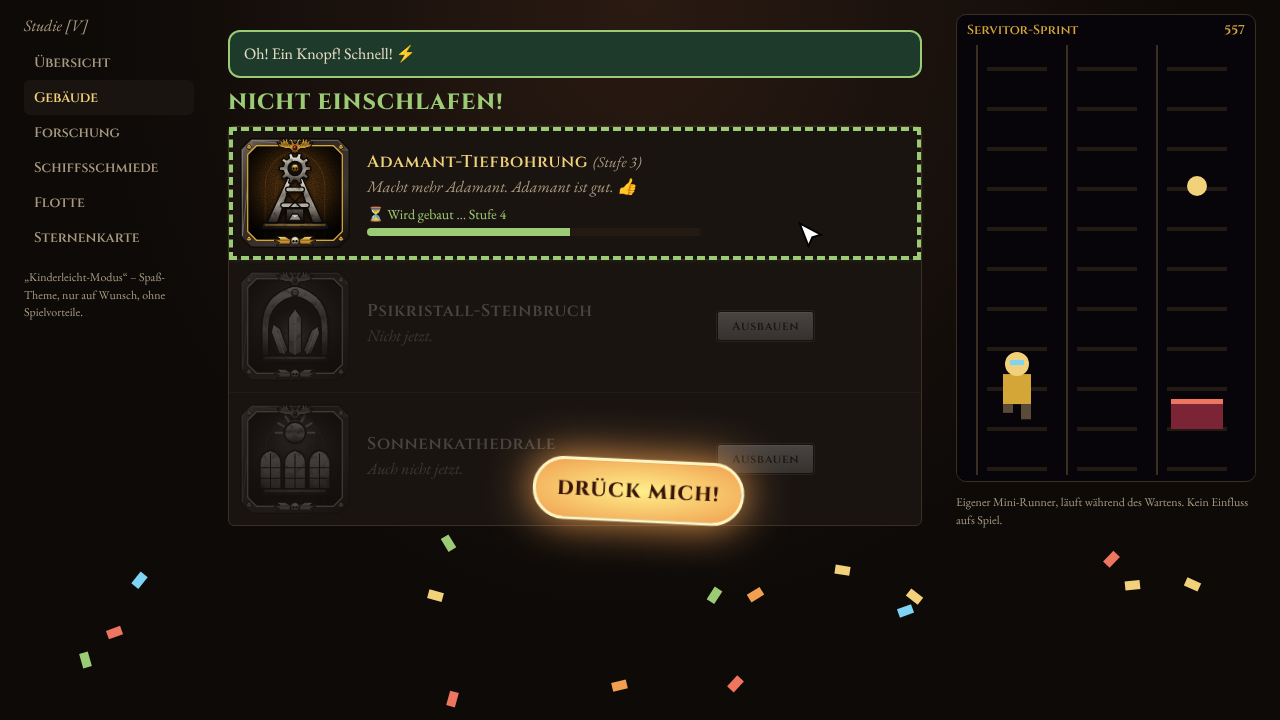
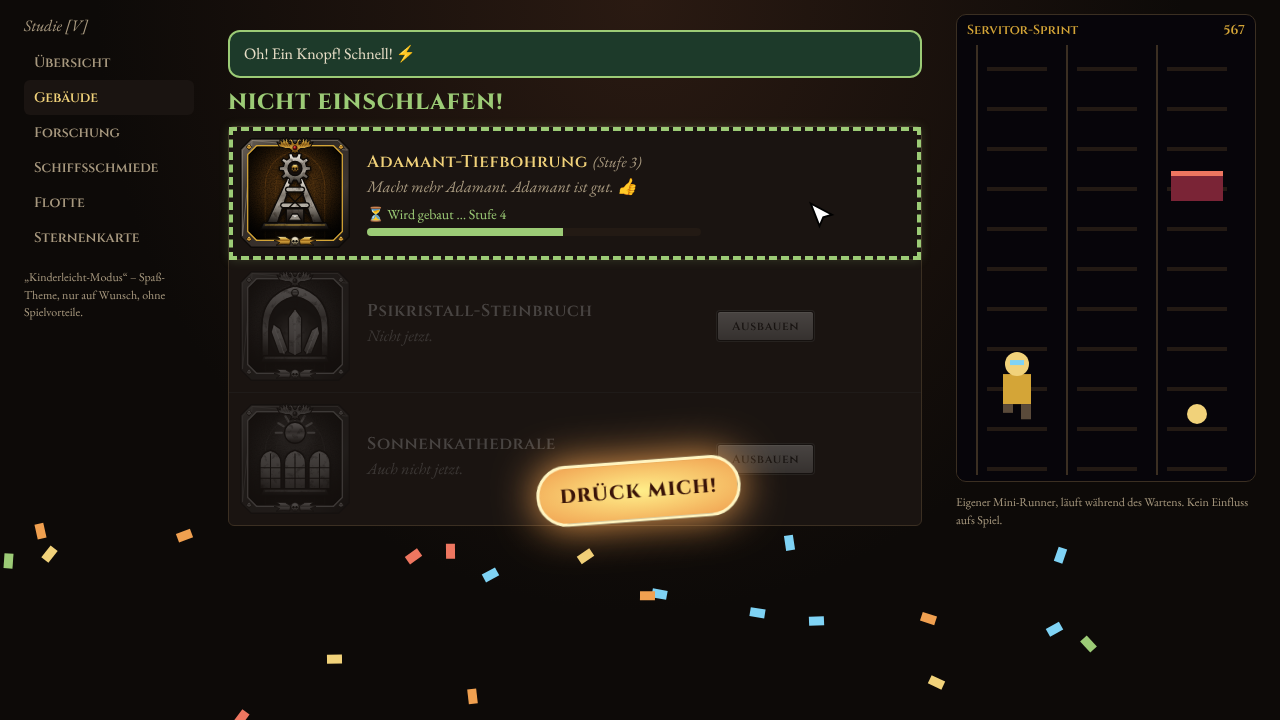
docs(design): ad with a 10 s wait and slot machine in the Kinderleicht study (#200)
Claude-Session: https://claude.ai/code/session_01SfKPSV7yZs96GhoXk9TEow

diff --git a/docs/design/ideas/easy-mode.html b/docs/design/ideas/easy-mode.html
@@ -125,7 +125,7 @@
       }
       .cursor {
         position: fixed;
-        z-index: 10;
+        z-index: 12;
         width: 30px;
         height: 30px;
         pointer-events: none;
@@ -257,6 +257,160 @@
         font-size: 22px;
         letter-spacing: 3px;
       }
+      .ad {
+        position: fixed;
+        inset: 0;
+        z-index: 11;
+        background: rgba(0, 0, 0, 0.78);
+        display: none;
+        align-items: center;
+        justify-content: center;
+      }
+      .ad.on {
+        display: flex;
+      }
+      .adcard {
+        width: 540px;
+        border-radius: 20px;
+        border: 4px solid #fff;
+        background: linear-gradient(160deg, #ff3ea5, #7a2cff 55%, #ffb321);
+        color: #fff;
+        padding: 12px 18px 14px;
+        text-align: center;
+        font-family: system-ui, sans-serif;
+        box-shadow: 0 0 60px #ff3ea5;
+        position: relative;
+      }
+      .adtop {
+        display: flex;
+        justify-content: space-between;
+        align-items: center;
+        font:
+          700 12px system-ui,
+          sans-serif;
+        letter-spacing: 0.1em;
+        opacity: 0.9;
+      }
+      .adcount {
+        background: rgba(0, 0, 0, 0.45);
+        border-radius: 14px;
+        padding: 4px 10px;
+        font-size: 13px;
+        letter-spacing: 0;
+      }
+      .adcount.shake {
+        animation: shake 0.35s;
+      }
+      @keyframes shake {
+        25% {
+          transform: translateX(-6px);
+        }
+        75% {
+          transform: translateX(6px);
+        }
+      }
+      .adx {
+        display: none;
+        width: 34px;
+        height: 34px;
+        border-radius: 50%;
+        background: #fff;
+        color: #000;
+        font: 800 18px system-ui;
+        border: 0;
+        padding: 0;
+        min-height: 0;
+      }
+      .adtitle {
+        font:
+          900 34px system-ui,
+          sans-serif;
+        margin: 6px 0 0;
+        text-shadow: 0 3px 0 #3a0a50;
+        letter-spacing: 0.02em;
+      }
+      .adsub {
+        font:
+          900 18px system-ui,
+          sans-serif;
+        color: #fff36a;
+        animation: blink 0.5s steps(2) infinite;
+        margin: 2px 0 8px;
+      }
+      @keyframes blink {
+        to {
+          opacity: 0.25;
+        }
+      }
+      .jack {
+        font: 800 15px system-ui;
+        background: #000a;
+        border-radius: 10px;
+        display: inline-block;
+        padding: 3px 12px;
+        margin-bottom: 8px;
+      }
+      .slot {
+        display: flex;
+        gap: 10px;
+        justify-content: center;
+        align-items: center;
+        background: #1a0630;
+        border: 4px solid #ffd23e;
+        border-radius: 14px;
+        padding: 12px;
+      }
+      .reel {
+        width: 90px;
+        height: 90px;
+        overflow: hidden;
+        background: #fff;
+        border-radius: 10px;
+        box-shadow:
+          inset 0 8px 14px #0006,
+          inset 0 -8px 14px #0006;
+      }
+      .strip div {
+        height: 90px;
+        display: flex;
+        align-items: center;
+        justify-content: center;
+        font-size: 56px;
+      }
+      .lever {
+        margin-left: 8px;
+        font: 900 15px system-ui;
+        padding: 12px 14px;
+        border-radius: 12px;
+        background: linear-gradient(#ff5a5a, #b00020);
+        color: #fff;
+        border: 3px solid #fff;
+        min-height: 0;
+      }
+      .adres {
+        font:
+          900 22px system-ui,
+          sans-serif;
+        min-height: 30px;
+        margin: 8px 0 4px;
+        color: #fff36a;
+        text-shadow: 0 2px 0 #000;
+      }
+      .install {
+        font: 900 17px system-ui;
+        padding: 10px 22px;
+        border-radius: 30px;
+        background: #22d36b;
+        color: #fff;
+        border: 3px solid #fff;
+        min-height: 0;
+        animation: wob 0.4s ease-in-out infinite alternate;
+      }
+      .adfine {
+        font-size: 10px;
+        opacity: 0.75;
+        margin: 8px 0 0;
+      }
     </style>
   </head>
   <body>
@@ -371,6 +525,36 @@
       />
     </svg>
     <button class="pop" id="pop">DRÜCK MICH!</button>
+    <div class="ad" id="ad">
+      <div class="adcard">
+        <div class="adtop">
+          <span>ANZEIGE</span
+          ><span class="adcount" id="adcount">Werbung schließen in 10</span
+          ><button class="adx" id="adx">✕</button>
+        </div>
+        <p class="adtitle">PROMETHIUM PANIK 🔥</p>
+        <p class="adsub">99 % SCHAFFEN DAS NICHT!</p>
+        <span class="jack">JACKPOT: 9.999.999 💎</span>
+        <div class="slot">
+          <div class="reel">
+            <div class="strip" id="r0"><div>💎</div></div>
+          </div>
+          <div class="reel">
+            <div class="strip" id="r1"><div>🚀</div></div>
+          </div>
+          <div class="reel">
+            <div class="strip" id="r2"><div>👑</div></div>
+          </div>
+          <button class="lever" id="lever">🎰<br />HEBEL<br />ZIEHEN</button>
+        </div>
+        <div class="adres" id="adres"></div>
+        <button class="install">JETZT GRATIS SPIELEN ▶</button>
+        <p class="adfine">
+          *Spielt sich nicht wie in der Werbung. Gewinne sind ausgeschlossen.
+          Parodie, keine echte Werbung.
+        </p>
+      </div>
+    </div>
     <div class="praise" id="praise"></div>
     <script>
       const $ = (id) => document.getElementById(id);
@@ -428,6 +612,73 @@
             { duration: 1800 + Math.random() * 1200, easing: 'ease-in' },
           ).onfinish = () => c.remove();
         }
+      }
+      const SYM = ['💀', '💎', '🚀', '⭐', '🔥', '👑'];
+      function spin(targets) {
+        targets.forEach((tg, i) => {
+          const n = 16 + i * 6;
+          const strip = $('r' + i);
+          let h = '';
+          for (let k = 0; k < n; k++)
+            h += `<div>${SYM[(k * 5 + i * 2) % SYM.length]}</div>`;
+          strip.innerHTML = h + `<div>${tg}</div>`;
+          strip.animate(
+            [
+              { transform: 'translateY(0)' },
+              { transform: `translateY(-${n * 90}px)` },
+            ],
+            {
+              duration: 1100 + i * 600,
+              easing: 'cubic-bezier(.15,.7,.3,1)',
+              fill: 'forwards',
+            },
+          );
+        });
+        return wait(1100 + 2 * 600 + 150);
+      }
+      async function ad() {
+        $('ad').classList.add('on');
+        $('adres').textContent = '';
+        $('adx').style.display = 'none';
+        $('adcount').style.display = '';
+        let left = 10;
+        $('adcount').textContent = 'Werbung schließen in ' + left;
+        const done = new Promise((res) => {
+          const iv = setInterval(() => {
+            left--;
+            $('adcount').textContent = 'Werbung schließen in ' + left;
+            if (left <= 0) {
+              clearInterval(iv);
+              $('adcount').style.display = 'none';
+              $('adx').style.display = 'block';
+              res();
+            }
+          }, 1000);
+        });
+        say('Werbung. Bitte kurz warten. 🙂', 'WERBUNG · NOCH KURZ WARTEN');
+        await wait(600);
+        await moveTo($('lever'));
+        await click();
+        await spin(['💎', '💎', '💀']);
+        $('adres').textContent = 'FAST GEWONNEN! 😱 NUR 1 DANEBEN!';
+        await wait(700);
+        await click();
+        $('adres').textContent = '';
+        await spin(['👑', '👑', '🚀']);
+        $('adres').textContent = 'SO KNAPP!! NOCH MAL? 🤑';
+        window.adShot = true;
+        await wait(400);
+        await moveTo($('adcount'));
+        await click();
+        const c = $('adcount');
+        c.classList.remove('shake');
+        void c.offsetWidth;
+        c.classList.add('shake');
+        await done;
+        await moveTo($('adx'));
+        await click();
+        $('ad').classList.remove('on');
+        await wait(300);
       }
       async function praise(text, ms = 1500) {
         const p = $('praise');
@@ -508,6 +759,8 @@
         pop.style.display = 'none';
         confetti();
         await praise('DU BIST SO SCHNELL! ⚡', 1200);
+        // the ad: appears at random in the game, here at a fixed point of the demo
+        await ad();
         say(
           'Fertig! Die Mine baut jetzt von allein. Spiel solange Servitor-Sprint →',
           'WARTEN IST AUCH EINE LEISTUNG 🏆',

diff --git a/docs/design/ideas/README.md b/docs/design/ideas/README.md
@@ -48,7 +48,8 @@ Guild research (#170):
 
 Kinderleicht-Modus, joke theme (#200):
 
-- `easy-mode.html` / `.png` / `.gif` – full flow: pick one of 3 directions, huge arrows to the next click, build starts with confetti and praise, pop-up button, mini runner „Servitor-Sprint“; `?once=1` plays it once
+- `easy-mode.html` / `.png` / `.gif` – full flow: pick one of 3 directions, huge arrows to the next click, build starts with confetti and praise, pop-up button, mini runner „Servitor-Sprint“, ad with a 10 s wait and a playable slot machine that always just misses; `?once=1` plays it once
+- `easy-mode-ad.png` – the ad with the slot machine
 
 The HTML files reference `/style.css`, `/fonts/`, `/icons/` and `/planets/` absolutely:
 serve them from a root that holds `src/client/static/` with this folder beside
